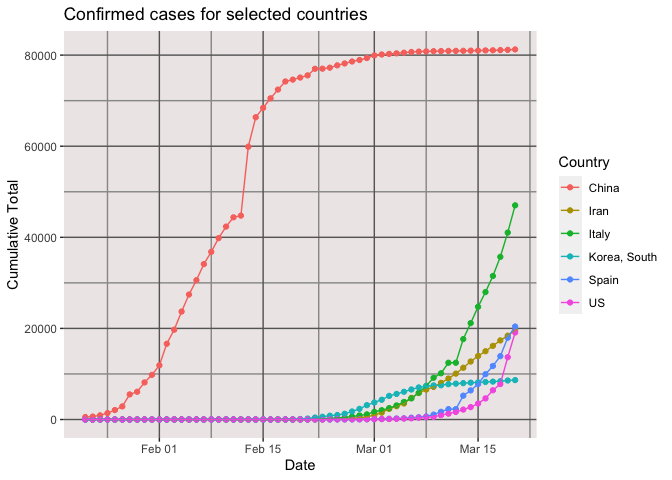
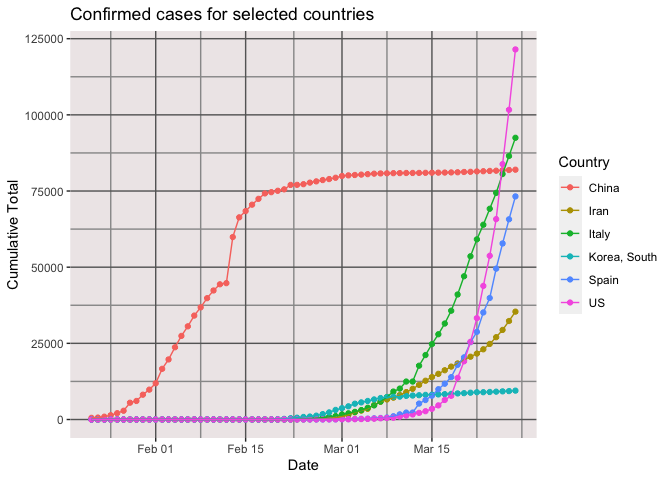
JHU CSSE changed file names and no longer shows state data for the US.

Changed region(s): [[0.0312, 0.0, 0.8125, 1.0]]

diff --git a/vignettes/covid19_confirmed_cases.md b/vignettes/covid19_confirmed_cases.md
@@ -1,18 +1,13 @@
 COVID-19 Confirmed Cases
 ================
 [Jim Tyhurst, Ph.D.](https://www.jimtyhurst.com/)
-2020-03-20
+2020-03-29
 
   - [tl;dr](#tldr)
 
 [Source code](./covid19_confirmed_cases.Rmd).
 
 ## tl;dr
-
-Plots cumulative number of confirmed cases for a few select states in
-the western part of the United States.
-
-![](covid19_confirmed_cases_files/figure-gfm/total_by_state_summary-1.png)<!-- -->
 
 Plots cumulative number of confirmed cases in China, Italy, Iran, Spain,
 South Korea, and United States. New cases have already leveled off in

diff --git a/vignettes/covid19_deaths.md b/vignettes/covid19_deaths.md
@@ -1,18 +1,13 @@
 COVID-19 Deaths
 ================
 [Jim Tyhurst, Ph.D.](https://www.jimtyhurst.com/)
-2020-03-20
+2020-03-29
 
   - [tl;dr](#tldr)
 
 [Source code](./covid19_deaths.Rmd).
 
 ## tl;dr
-
-Plots cumulative number of deaths for a few select states in the western
-part of the United States.
-
-![](covid19_deaths_files/figure-gfm/total_by_state_summary-1.png)<!-- -->
 
 Plots cumulative number of deaths in China, Italy, Iran, Spain, South
 Korea, and United States. New cases have already leveled off in China
